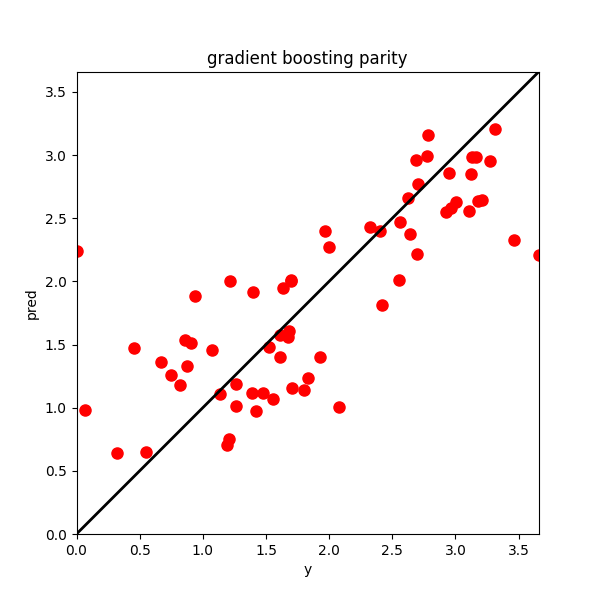
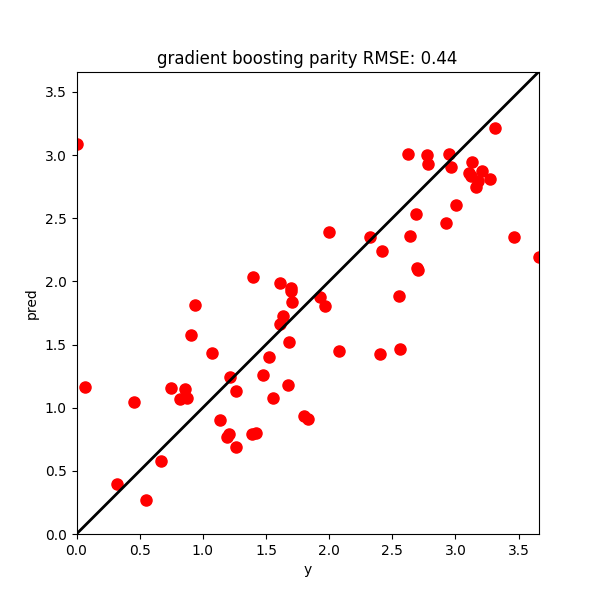
writeup of current results, plan set for wednesday

diff --git a/boxylmer/MaterialPropertyPredictor/MaterialDataLoader.py b/boxylmer/MaterialPropertyPredictor/MaterialDataLoader.py
@@ -33,10 +33,7 @@ class AbstractDataLoader(ABC):
         #   Very good primer on why the sorted eigenvalues are both useful and computationally efficient.
         #   Still not as good as a graph representation, but this is much faster to implement given I still have papers to grade :(.
         self.coulomb_matrix_eigenvalues = None
-
         self.input_length = None
-
-
         self.input_cache = None
 
     @abstractmethod
@@ -61,7 +58,6 @@ class AbstractDataLoader(ABC):
     def calculate_distances_accurate(cls, structure):
         n = len(structure)
         distances = np.zeros((n, n))
-        
         for i in range(n):
             for j in range(i+1, n):
                 dist = structure.get_distance(i, j)
@@ -72,7 +68,7 @@ class AbstractDataLoader(ABC):
 
     # coulomb matrix implemented from https://singroup.github.io/dscribe/0.3.x/tutorials/coulomb_matrix.html
     @classmethod
-    def calculate_coulomb_matrix(cls, structure, distance_method='fast'):
+    def calculate_coulomb_matrix(cls, structure, distance_method):
         n = len(structure)
         mat = np.zeros((n, n))
         z = np.array([atom.specie.Z for atom in structure]) # docs: https://pymatgen.org/pymatgen.core.html#pymatgen.core.periodic_table.Element
@@ -93,9 +89,9 @@ class AbstractDataLoader(ABC):
     @classmethod 
     def calculate_eigenvalues(cls, coulomb_matrix):
         eigenvalues, _ = np.linalg.eigh(coulomb_matrix)
-        sorted_evs = np.sort(eigenvalues)
+        sorted_evs = np.sort(eigenvalues)[::-1]
         return sorted_evs
-
+    
     def calculate_max_input_size(self):
         # later we may modify these descriptors, so lets tabulate them. We also have extras!
         vol = 1
@@ -111,8 +107,23 @@ class AbstractDataLoader(ABC):
             assert len(self.extra_data[key] == ndata)
         # given more constraints later on, this may be expanded if the types of input data structures widen
 
-    def _process_parsed_data(self):
-        self.coulomb_matrices = [self.calculate_coulomb_matrix(s) for s in self.structures]
+    def _process_parsed_data(self, distance_method):
+        # self.coulomb_matrices = [self.calculate_coulomb_matrix(s, distance_method='accurate') for s in self.structures]
+        if distance_method == 'accurate':
+            print("Distance method is accurate rather than fast, this may take some time.")
+        self.coulomb_matrices = []
+        total_iterations = len(self.structures) 
+        percent_complete = 0
+        for i, s in enumerate(self.structures):
+            if distance_method == 'accurate':
+                new_percent_complete = (i * 100) // total_iterations 
+                if new_percent_complete > percent_complete: 
+                    percent_complete = new_percent_complete
+                    print(f"Coulomb Matrix Progress: {percent_complete}%", end='\r')
+            self.coulomb_matrices.append(
+                self.calculate_coulomb_matrix(s, distance_method)
+            )
+
         self.coulomb_matrix_eigenvalues = [self.calculate_eigenvalues(cmat) for cmat in self.coulomb_matrices]
         self.input_length = self.calculate_max_input_size()
         self._validate()
@@ -133,10 +144,15 @@ class AbstractDataLoader(ABC):
 
             for i in range(num_structures):
                 feature_vector = np.hstack(
-                    (self.volumes[i], 
-                    self.lattice_vectors[i],
-                    self.lattice_angles[i], 
-                    self.coulomb_matrix_eigenvalues[i]), dtype=np.float32)
+                    (
+                        self.volumes[i], 
+                        self.lattice_vectors[i],
+                        self.lattice_angles[i], 
+                        # self.coulomb_matrix_eigenvalues[i]
+                        np.array([atom.specie.Z for atom in self.structures[i]], dtype=np.float32) # what if we use only the atoms? 
+                    ), 
+                    dtype=np.float32
+                )
 
                 padding_size = self.input_length - len(feature_vector)
 
@@ -180,7 +196,7 @@ class MPRLoader(AbstractDataLoader):
     def __init__(self):
         super().__init__()
 
-    def load_data(self, api_key, **kwargs):
+    def load_data(self, api_key, distance_method='fast', **kwargs):
         with MPRester(api_key) as mpr:
             data = mpr.materials.summary.search(
                 fields=[
@@ -204,4 +220,4 @@ class MPRLoader(AbstractDataLoader):
         # thus for this concrete class, extras are moot (but we could fill them out later, or just lump all our parsed data into a dict)
         self.extra_data = {} 
 
-        self._process_parsed_data()
+        self._process_parsed_data(distance_method=distance_method)

diff --git a/boxylmer/MaterialPropertyPredictor/PredictorModel.py b/boxylmer/MaterialPropertyPredictor/PredictorModel.py
@@ -2,6 +2,7 @@ from abc import ABC, abstractmethod
 import numpy as np
 from sklearn.ensemble import RandomForestRegressor
 from sklearn.ensemble import GradientBoostingRegressor
+from sklearn.model_selection import RandomizedSearchCV
 
 
 class AbstractBandGapModel(ABC):
@@ -36,13 +37,23 @@ class AbstractBandGapModel(ABC):
         pred = self._predict(x)
 
         return y, pred
+    
+    @abstractmethod
+    def fit_hyperparameters(self, material_data_loader):
+        pass
 
 class RandomForestBandGapModel(AbstractBandGapModel):
     def __init__(self):
         super().__init__()
-        self.model = RandomForestRegressor(n_estimators=150)
-        
+        self.model = RandomForestRegressor(
+            n_estimators=50, 
+            min_samples_split=4, 
+            min_samples_leaf=2, 
+            max_depth=30, 
+            bootstrap=True
+            )
 
+        
     def fit(self, material_data_loader):
         train_x, train_y = material_data_loader.get_train_data()
         self.model.fit(train_x, train_y)
@@ -50,13 +61,47 @@ class RandomForestBandGapModel(AbstractBandGapModel):
 
     def _predict(self, x):
         return self.model.predict(x)
+    
 
+    def fit_hyperparameters(self, material_data_loader, n_iter=50):
+        param_dist = {
+            'n_estimators': np.arange(10, 200, 10),
+            'max_depth': [None] + list(np.arange(5, 50, 5)),
+            'min_samples_split': np.arange(2, 10, 1),
+            'min_samples_leaf': np.arange(1, 10, 1),
+            'bootstrap': [True, False]
+        }
+        
+        random_search = RandomizedSearchCV(
+            estimator=self.model,
+            param_distributions=param_dist,
+            n_iter=n_iter,
+            scoring='neg_mean_squared_error', # really annoying convention, I'm going to forget this later and be upset when I do it again and it moves **away** from local minima
+            verbose=1,
+            n_jobs=-1
+        )
+        
+        train_x, train_y = material_data_loader.get_train_data()
+        
+        random_search.fit(train_x, train_y) # very confused initially but the docs say it does a validation split internally, so we're OK
 
+        self.model = random_search.best_estimator_
 
+        print(f"Best hyperparameters found: {random_search.best_params_} at RMSE = {-random_search.best_score_}")
+
+# if this performs well, we would want to replace it with the more performant XGBoost model, 
+#   which is fundamentally the same but can be parallelized easily and may even have better optimization methods
+# more info: https://stats.stackexchange.com/questions/282459/xgboost-vs-python-sklearn-gradient-boosted-trees
 class GradientBoostingBandGapModel(AbstractBandGapModel):
     def __init__(self):
         super().__init__()
-        self.model = GradientBoostingRegressor(n_estimators=150, learning_rate=0.1)
+        self.model = GradientBoostingRegressor(
+            n_estimators=170, 
+            min_samples_split=4, 
+            min_samples_leaf=6, 
+            max_depth=4, 
+            learning_rate=0.1
+        )
         
 
     def fit(self, material_data_loader):
@@ -67,3 +112,28 @@ class GradientBoostingBandGapModel(AbstractBandGapModel):
     def _predict(self, x):
         return self.model.predict(x)
     
+    def fit_hyperparameters(self, material_data_loader, n_iter=50):
+        param_dist = {
+            'n_estimators': np.arange(10, 200, 10),
+            'max_depth': [None] + list(np.arange(3, 16, 1)),
+            'min_samples_split': np.arange(2, 10, 1),
+            'min_samples_leaf': np.arange(1, 10, 1),
+            'learning_rate': [0.01, 0.05, 0.1, 0.2, 0.5]
+        }
+        
+        random_search = RandomizedSearchCV(
+            estimator=self.model,
+            param_distributions=param_dist,
+            n_iter=n_iter,
+            scoring='neg_mean_squared_error', 
+            verbose=1,
+            n_jobs=-1
+        )
+        
+        train_x, train_y = material_data_loader.get_train_data()
+        
+        random_search.fit(train_x, train_y) 
+
+        self.model = random_search.best_estimator_
+
+        print(f"Best hyperparameters found: {random_search.best_params_} at RMSE = {-random_search.best_score_}")

diff --git a/boxylmer/tests/aggregated_test.py b/boxylmer/tests/aggregated_test.py
@@ -2,7 +2,7 @@ import warnings
 from MaterialPropertyPredictor import MPRLoader
 from MaterialPropertyPredictor import RandomForestBandGapModel
 from MaterialPropertyPredictor import GradientBoostingBandGapModel
-
+from sklearn import metrics
 
 import os
 import matplotlib.pyplot as plt
@@ -15,10 +15,13 @@ def output_directory():
     return output_dir
 
 def generate_parity_plot(y, pred, filename):
+
+    rmse = metrics.mean_absolute_error(y, pred)  
+    rmse = round(rmse, 2)
     plt.figure(figsize=(6, 6)) 
     plt.plot(y, pred, 'ro', markersize=8, markerfacecolor='red')
     max_value = max(max(y), max(pred))
-    plt.plot([0, max_value], [0, max_value], 'k-', lw=2, label='Parity Line')
+    plt.plot([0, max_value], [0, max_value], 'k-', lw=2)
 
     plt.xlabel('y')
     plt.ylabel('pred')
@@ -27,7 +30,7 @@ def generate_parity_plot(y, pred, filename):
     plt.gca().set_aspect('equal', adjustable='box') 
     plt.box(True)
     plt.grid(False) 
-    plt.title(filename)
+    plt.title(filename + " RMSE: " + str(rmse))
     
     plot_filename = os.path.join(output_directory(), filename + ".png")
     plt.savefig(plot_filename)
@@ -35,22 +38,33 @@ def generate_parity_plot(y, pred, filename):
     assert os.path.isfile(plot_filename)
 
 
+api_key_file = "api_key.txt"
 loader = None
 def test_loading():
     global loader
     warnings.filterwarnings("ignore", category=UserWarning)
-    api_key_file = "api_key.txt"
     with open(api_key_file, "r") as f:
         api_key = f.read().strip()
         loader = MPRLoader()
         loader.load_data(
             api_key, 
+            distance_method='fast',
             elements=["O", "Si", "Ge"]
-            # chemsys=["Si", "Si-Ge", "Ge-Si", "Ge"],
         )
     assert len(loader) > 0
     assert len(loader) == len(loader.get_model_inputs())
     assert len(loader) == len(loader.formulas)
+
+def test_loading_accurate_distances():
+    with open(api_key_file, "r") as f:
+        api_key = f.read().strip()
+        accurate_loader = MPRLoader()
+        accurate_loader.load_data(
+            api_key, 
+            distance_method='accurate',
+            chemsys=["Si-Ge"],
+        )
+    assert len(accurate_loader) > 1
 
 def test_input_and_output_len():
     assert len(loader) > 1
@@ -76,8 +90,17 @@ def test_random_forest_bandgap_model():
     randomforest_model.predict(loader)
     y, pred = randomforest_model.parity(loader)
     assert len(y) == len(pred)
-
     generate_parity_plot(y, pred, "random forest parity")
+
+    y, pred = randomforest_model.parity(loader, test_data_only=False)
+    assert len(y) == len(pred)
+    generate_parity_plot(y, pred, "random forest parity - all data")
+
+    # # Run this to identify better hyperparams
+    # randomforest_model.fit_hyperparameters(loader)
+    # y, pred = randomforest_model.parity(loader)
+    # generate_parity_plot(y, pred, "gradient boosting parity - tuned hyperparameters")
+
 
 gradientboosting_model = None
 def test_gradient_boosting_bandgap_model():
@@ -87,5 +110,12 @@ def test_gradient_boosting_bandgap_model():
     gradientboosting_model.predict(loader)
     y, pred = gradientboosting_model.parity(loader)
     assert len(y) == len(pred)
-
     generate_parity_plot(y, pred, "gradient boosting parity")
+
+    y, pred = gradientboosting_model.parity(loader, test_data_only=False)
+    assert len(y) == len(pred)
+    generate_parity_plot(y, pred, "gradient boosting parity - all data")
+
+    # gradientboosting_model.fit_hyperparameters(loader)
+    # y, pred = gradientboosting_model.parity(loader)
+    # generate_parity_plot(y, pred, "gradient boosting parity - tuned hyperparameters")

diff --git a/boxylmer/plan, notes, and progress.md b/boxylmer/plan, notes, and progress.md
@@ -40,7 +40,23 @@
 
 - It may be useful to implement predict_pymatgen(pymatgen_structure, extras={}) to facilitate easy prediction with custom structures, but this may be out of scope for now. **Future design will need to consider how exactly novel predictions are going to be made and where from / in what format that data will arrive in.**  
 
-## Wednesday (Finish up model, test model for goals (realistic band gap values, parity, etc))
+- Clearly, based on parity plots alone we are not predicting well. Though we technically satisfy the "reasonable value" property set forth by the original request (that is, values are in the right ballpark and will interpolate between pure systems), these techniques are a far stretch from being usable in a real environment. We have a number of options and conclusions as of today.
+    - Random forest slightly out-performs gradient boosting using these features for large datasets and likely all sizes as well. 
+    - Foregoing coulomb matrix methods and attempting more direct- but less informative -features such as simply a list of atomic numbers might assist with these models.
+    - Time permitting, an autoencoder would be very interesting to pursue, as it would fix two issues at once: High dimensionality and variable input sizes (necessitating padding).
+
+    - We can check the model for memorization by plotting training parity as well: Thus far memorization does not appear to be occurring with fewer than 100 estimators. This is consistent for smaller datasets. (see below)
+
+    - Since we're padding with zeros and eigenvalues encode structural information, maybe we should ensure the sorting is *descending* and not *ascending*? 
+        - Yep! This slightly improves the testing results in both models, almost certainly because larger EVs represent more prevalent informaiton. ]
+    
+    - I'll go ahead and implement something to find the best hyperparameters and move on from this, as it's a proof of concept. Fixing the descriptor with an autoencoder or another better featurization is likely the core issue, everything else is just slapping band-aids on the problem. 
+
+    - Optimizing hyperparameters definitely doesn't avoid memorization to any degree, and possibly worsens it. 
+
+- Overall conclusion: **Switching from eigenvalues to atomic numbers improves both models RMSE by almost exaclty 0.02, suggesting that the models are struggling to learn to represent these features. As a result, autoencoders present the most viable way to improve these predictions, but implementing them may be out of scope within the time limits of this project**
+
+## Wednesday (~~Finish up model, test model for goals (realistic band gap values, parity, etc)~~ -> Document what exists now, begin understanding more about why the current set of features fail to adequately predict band gap, and begin improving the results.)
 ### Day plan
 
 ## Thursday (Visualization of results + deal with possible issues or hangups that may have happened Mon-Wed)
